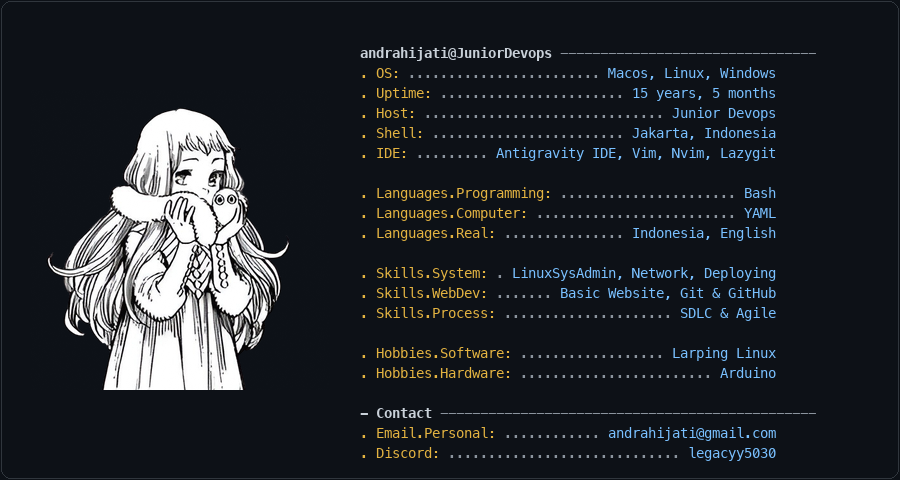
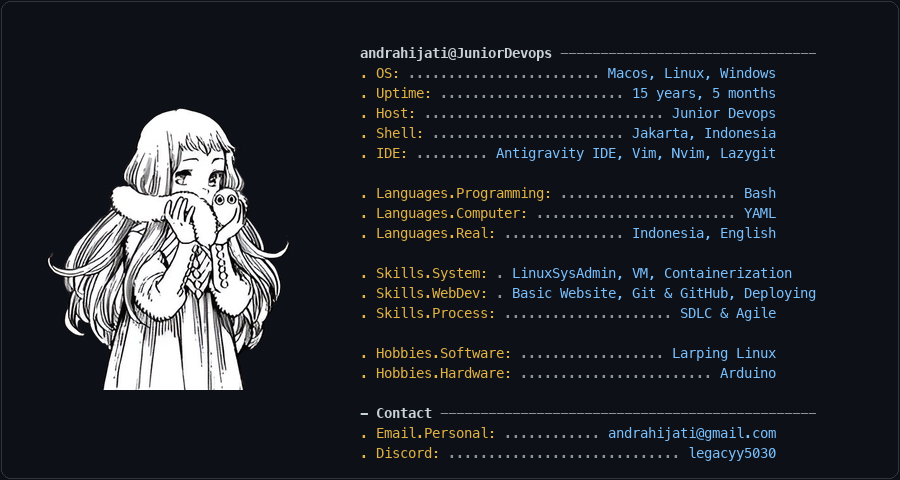
Update skills with Containerization and VM

Changed region(s): [[0.56, 0.5625, 0.9022, 0.625]]

diff --git a/generate_png.py b/generate_png.py
@@ -13,8 +13,8 @@ stats = [
     (". Languages.Computer:", "YAML"),
     (". Languages.Real:", "Indonesia, English"),
     (".", ""),
-    (". Skills.System:", "LinuxSysAdmin, Network, Deploying"),
-    (". Skills.WebDev:", "Basic Website, Git & GitHub"),
+    (". Skills.System:", "LinuxSysAdmin, VM, Containerization"),
+    (". Skills.WebDev:", "Basic Website, Git & GitHub, Deploying"),
     (". Skills.Process:", "SDLC & Agile"),
     (".", ""),
     (". Hobbies.Software:", "Larping Linux"),
